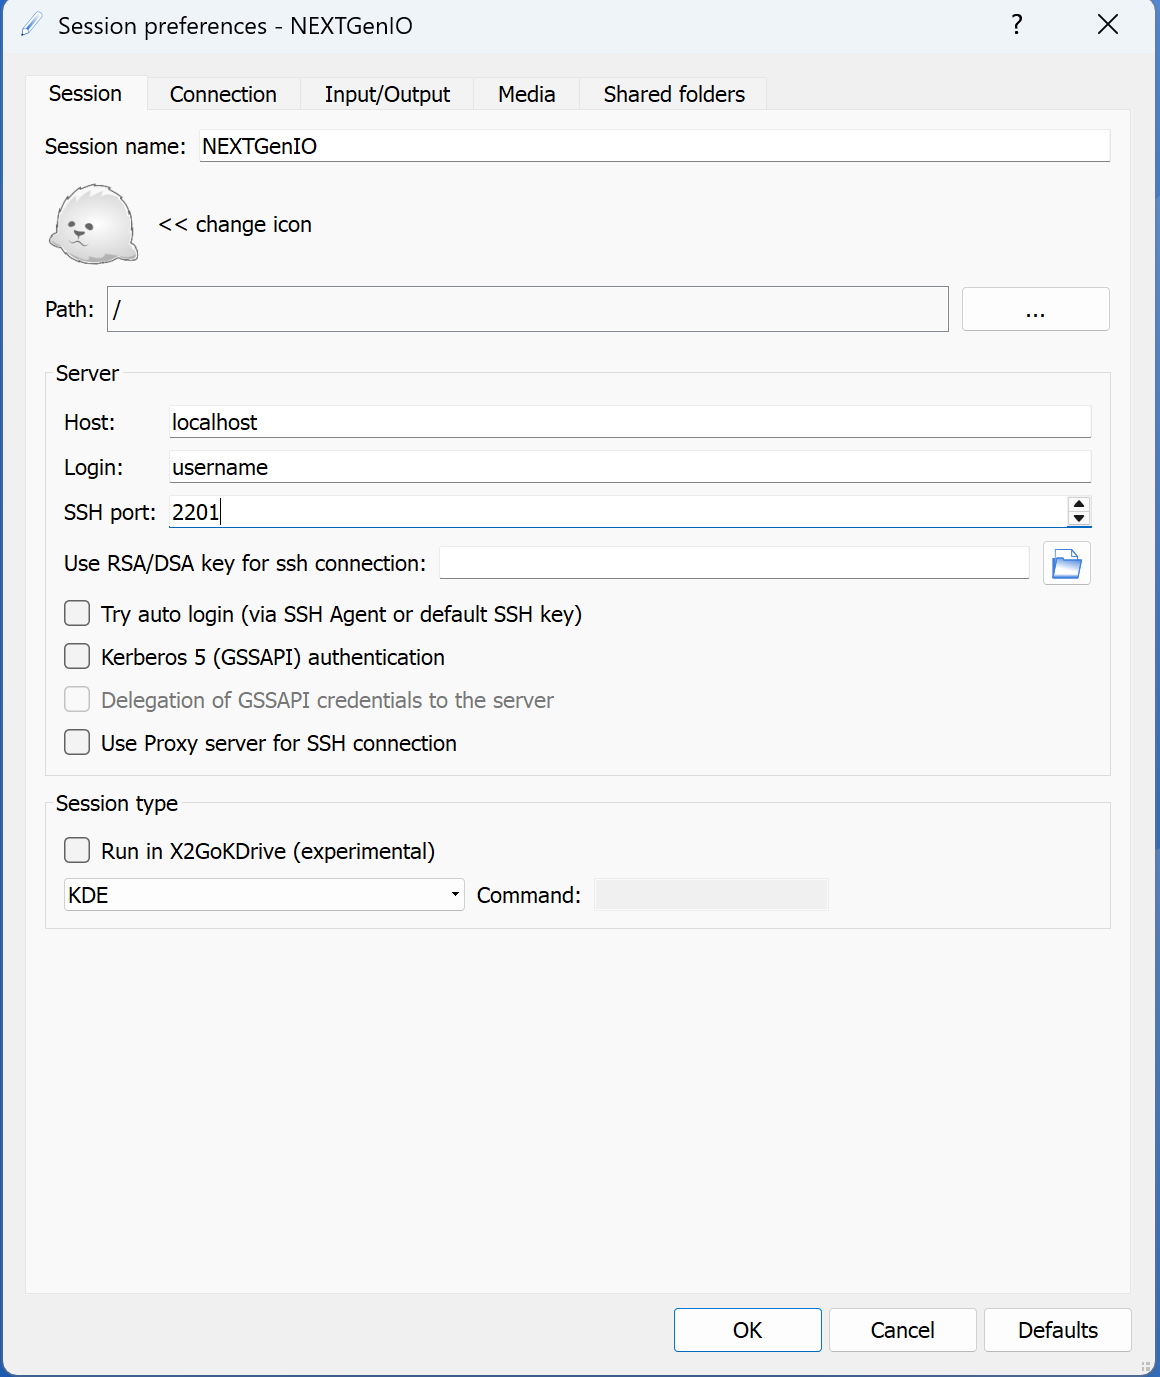
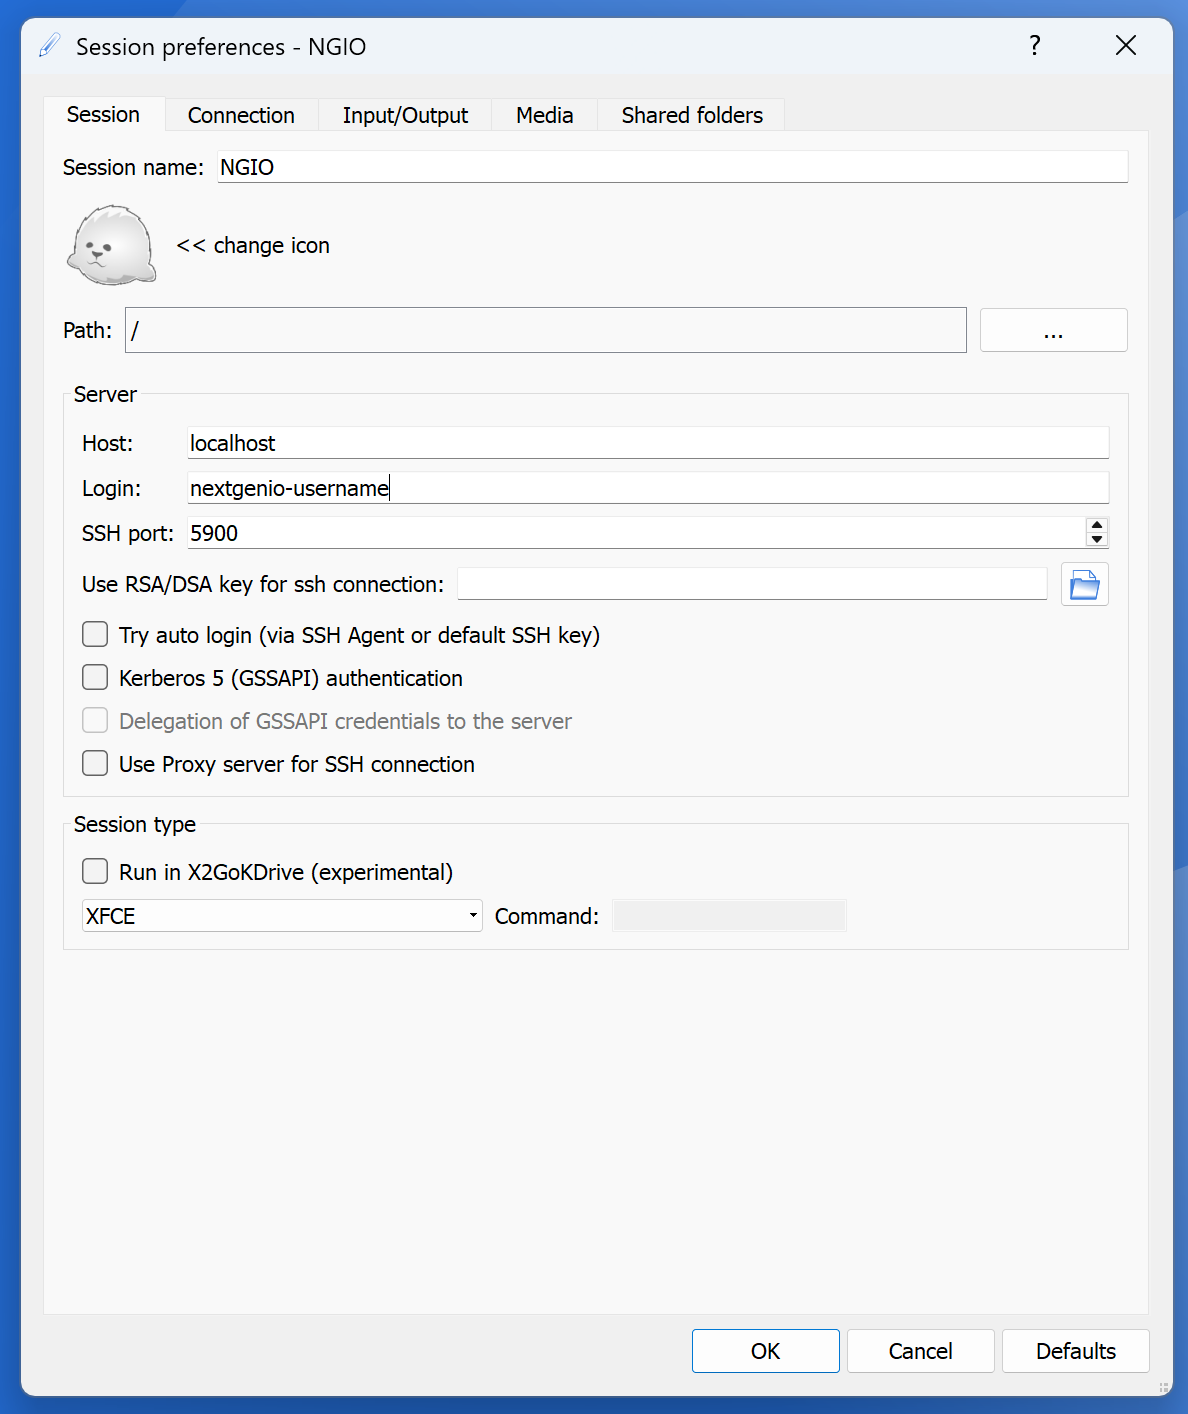
Updating website with new connection details

diff --git a/docs/getting_started.md b/docs/getting_started.md
@@ -27,7 +27,7 @@ The lightweight XFCE desktop is installed on the front-end of the testbed system
 
 To use this you should setup a port forward connection:
 ```console
-username@localhost:~$ ssh -L 2201:nextgenio-login`:22 -J gateway-username@gateway.epcc.ed.ac.uk nextgenio-username@nextgenio-login1
+username@localhost:~$ ssh -L 5900:nextgenio-login1:5900 -J gateway-username@gateway.epcc.ed.ac.uk nextgenio-username@nextgenio-login1
 [nextgenio-username@nextgenio-login1 ~]$
 ```
 
